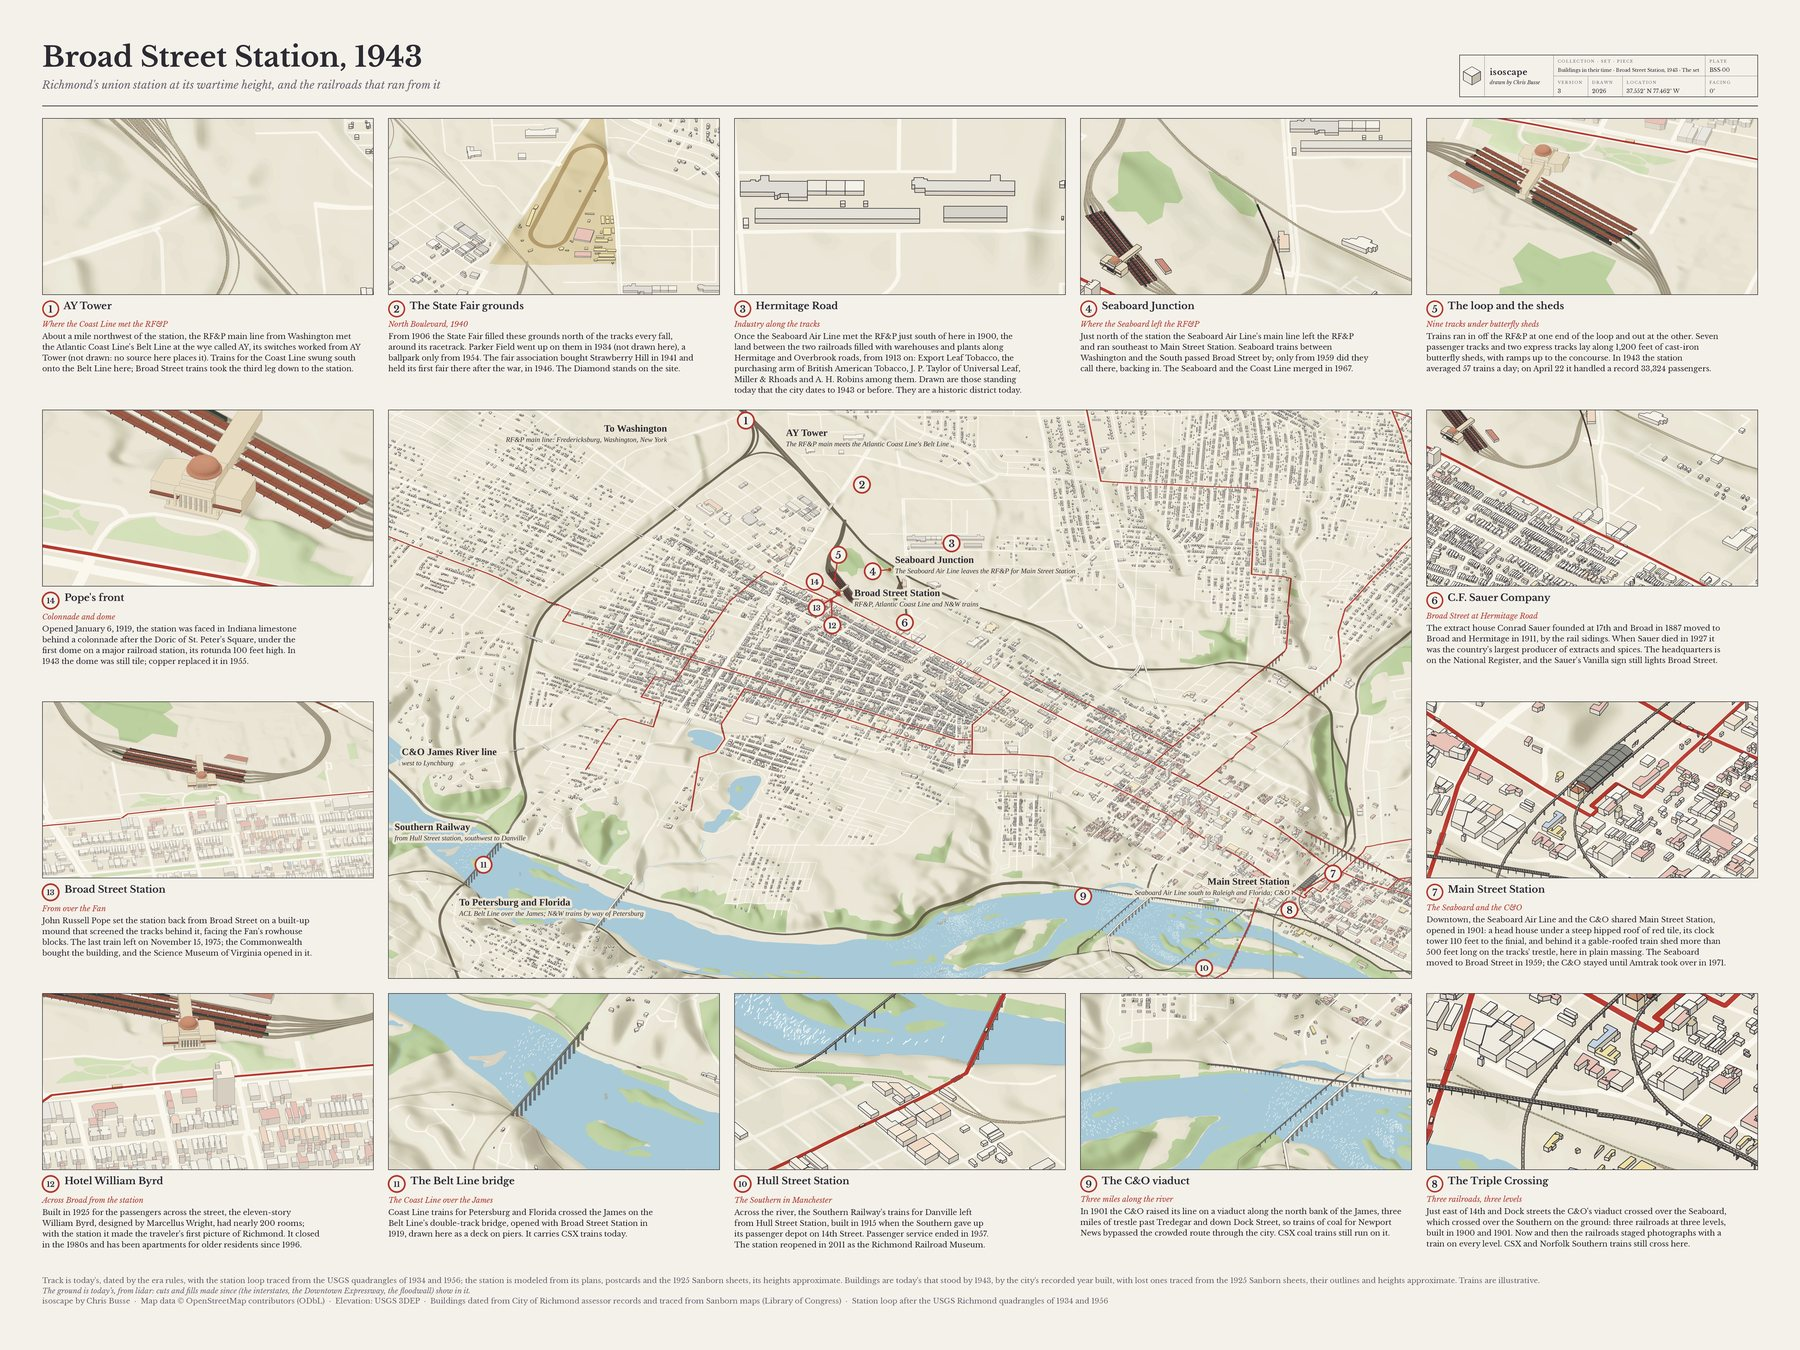
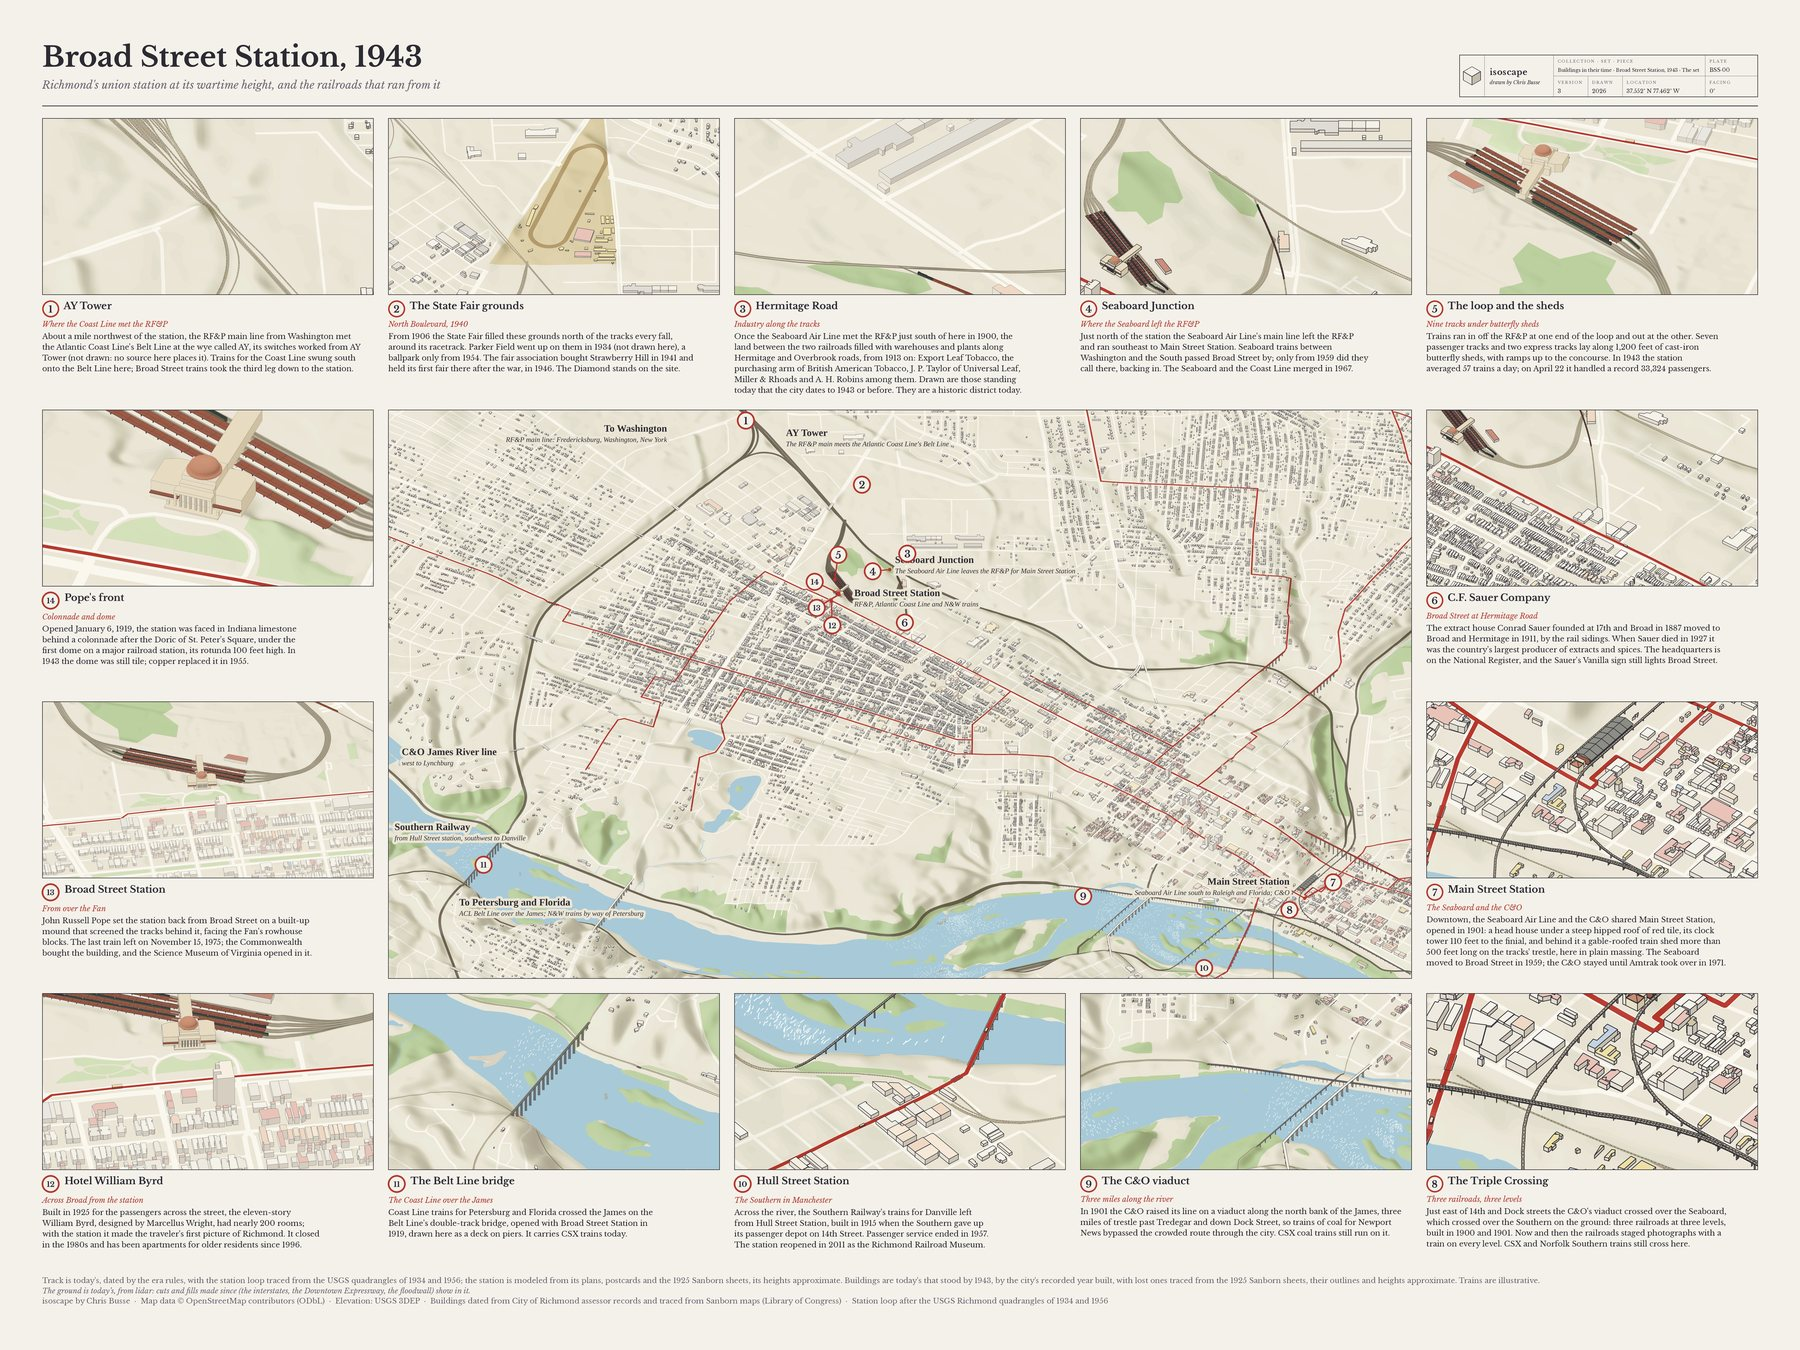
Broad Street set: How it's made and the page for fix round 5 (deck lifts carried on, measured station heights, box 3's view)
Claude-Session: https://claude.ai/code/session_01BmucdKVM8FF97Ya9PzpVZh

diff --git a/pages/broad-street.md b/pages/broad-street.md
@@ -37,7 +37,7 @@ From 1906 the State Fair filled these grounds north of the tracks every fall, ar
 
 Once the Seaboard Air Line met the RF&P just south of here in 1900, the land between the two railroads filled with warehouses and plants along Hermitage and Overbrook roads, from 1913 on: Export Leaf Tobacco, the purchasing arm of British American Tobacco, J. P. Taylor of Universal Leaf, Miller & Rhoads and A. H. Robins among them. Drawn are those standing today that the city dates to 1943 or before. They are a historic district today.
 
-[See it on the map](https://busse.github.io/isoscape/#broad-street-lines:1943@252,-597,6) · Sources: [1](https://www.dhr.virginia.gov/historic-registers/127-6730/) [2](https://www.dhr.virginia.gov/pdf_files/127-7825_Hermitage_Road_Warehouse_HD_Update_BI_2023_NRHP_DraftFinal051023.pdf)
+[See it on the map](https://busse.github.io/isoscape/#broad-street-hermitage:1943@-121,68,6) · Sources: [1](https://www.dhr.virginia.gov/historic-registers/127-6730/) [2](https://www.dhr.virginia.gov/pdf_files/127-7825_Hermitage_Road_Warehouse_HD_Update_BI_2023_NRHP_DraftFinal051023.pdf)
 
 ### 4. Seaboard Junction
 
@@ -69,7 +69,7 @@ The extract house Conrad Sauer founded at 17th and Broad in 1887 moved to Broad 
 
 Downtown, the Seaboard Air Line and the C&O shared Main Street Station, opened in 1901: a head house under a steep hipped roof of red tile, its clock tower 110 feet to the finial, and behind it a gable-roofed train shed more than 500 feet long on the tracks' trestle, here in plain massing. The Seaboard moved to Broad Street in 1959; the C&O stayed until Amtrak took over in 1971.
 
-[See it on the map](https://busse.github.io/isoscape/#broad-street-lines:1943@1533,658,6) · Sources: [1](https://www.dhr.virginia.gov/?p=15225) [2](https://archive.org/details/sim_railway-age_1900-07-13_32_28) [3](https://tile.loc.gov/storage-services/master/pnp/habshaer/va/va0500/va0562/data/va0562data.pdf) [4](https://www.greatamericanstations.com/stations/RVM) [5](https://en.wikipedia.org/wiki/Richmond_Main_Street_Station)
+[See it on the map](https://busse.github.io/isoscape/#broad-street-lines:1943@1533,690,6) · Sources: [1](https://www.dhr.virginia.gov/?p=15225) [2](https://archive.org/details/sim_railway-age_1900-07-13_32_28) [3](https://tile.loc.gov/storage-services/master/pnp/habshaer/va/va0500/va0562/data/va0562data.pdf) [4](https://www.greatamericanstations.com/stations/RVM) [5](https://en.wikipedia.org/wiki/Richmond_Main_Street_Station)
 
 ### 8. The Triple Crossing
 

diff --git a/pages/how-its-made.md b/pages/how-its-made.md
@@ -1068,6 +1068,10 @@ head house's wings at the mound's level along Broad Street (65.6 m), where the g
 falls about 5 m to the tracks.
 Where two rail decks run into one another at nearly one level (within 2 m), the shorter deck's
 pieces lying on the longer one are left out, so converging viaducts read as one deck.
+A crossing's lift is carried on, still fading at 3%, into a deck that continues the lifted one end to
+end, so no step shows where a line's OSM layer changes. Main Street Station's heights are measured
+on a 1971 HABS photograph against its 110-ft finial (eaves 56 ft, ridge about 80 ft, dome 93 to
+102 ft), with a clock face 7.5 ft across on each side of the tower.
 
 **What the series cannot show:**
 
